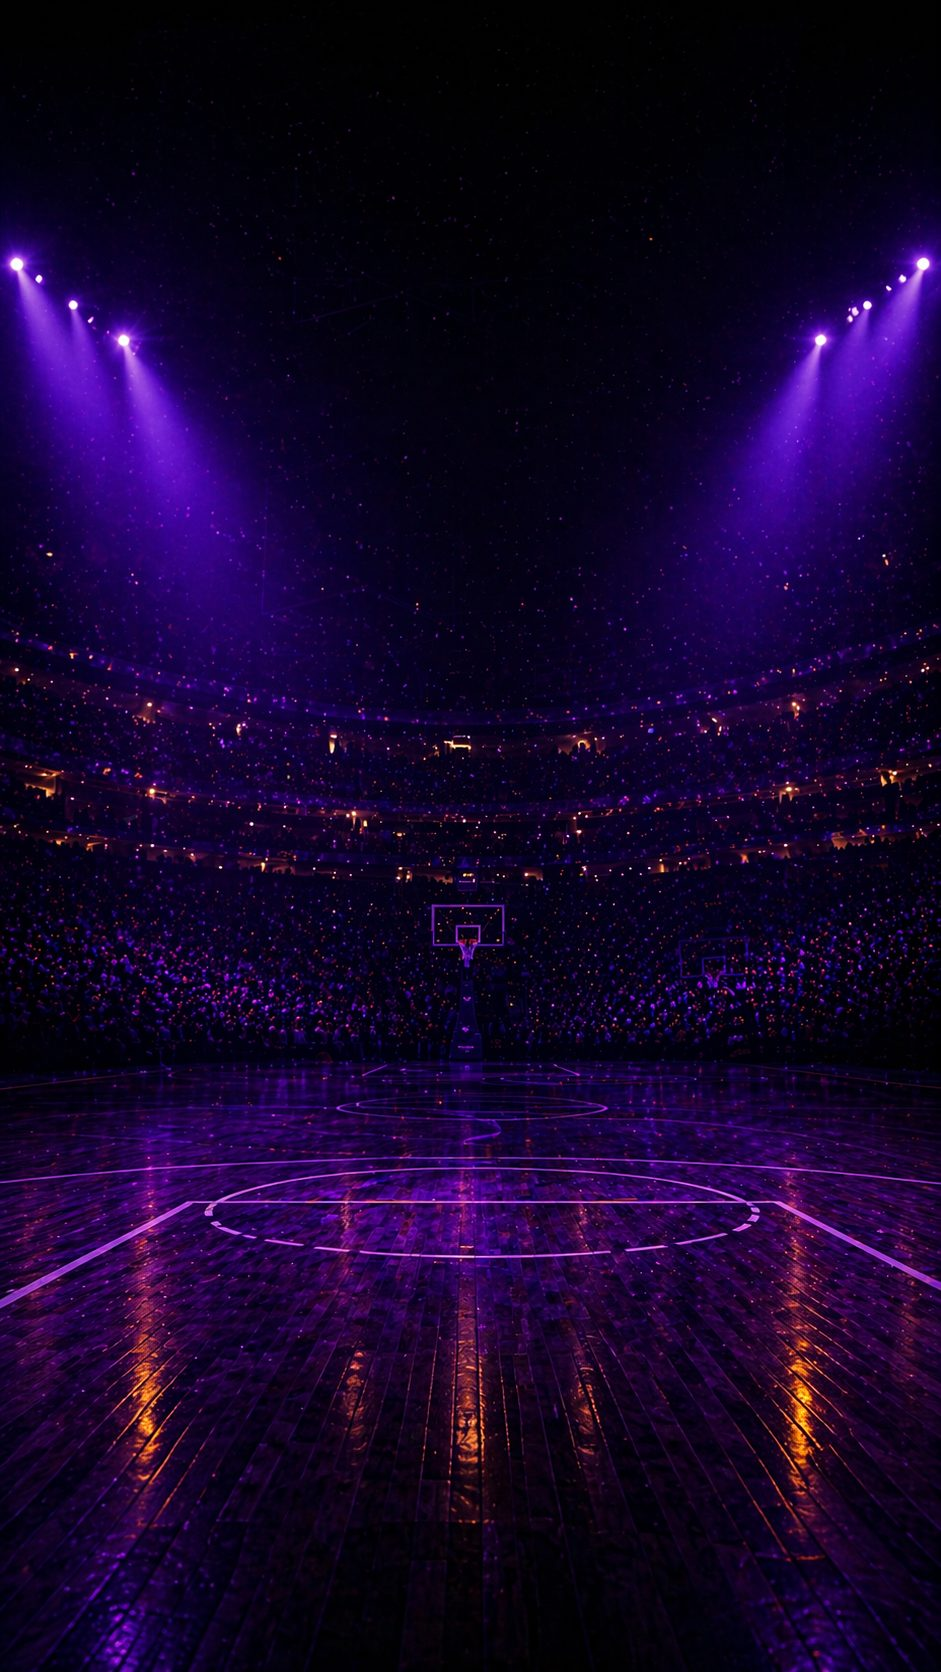
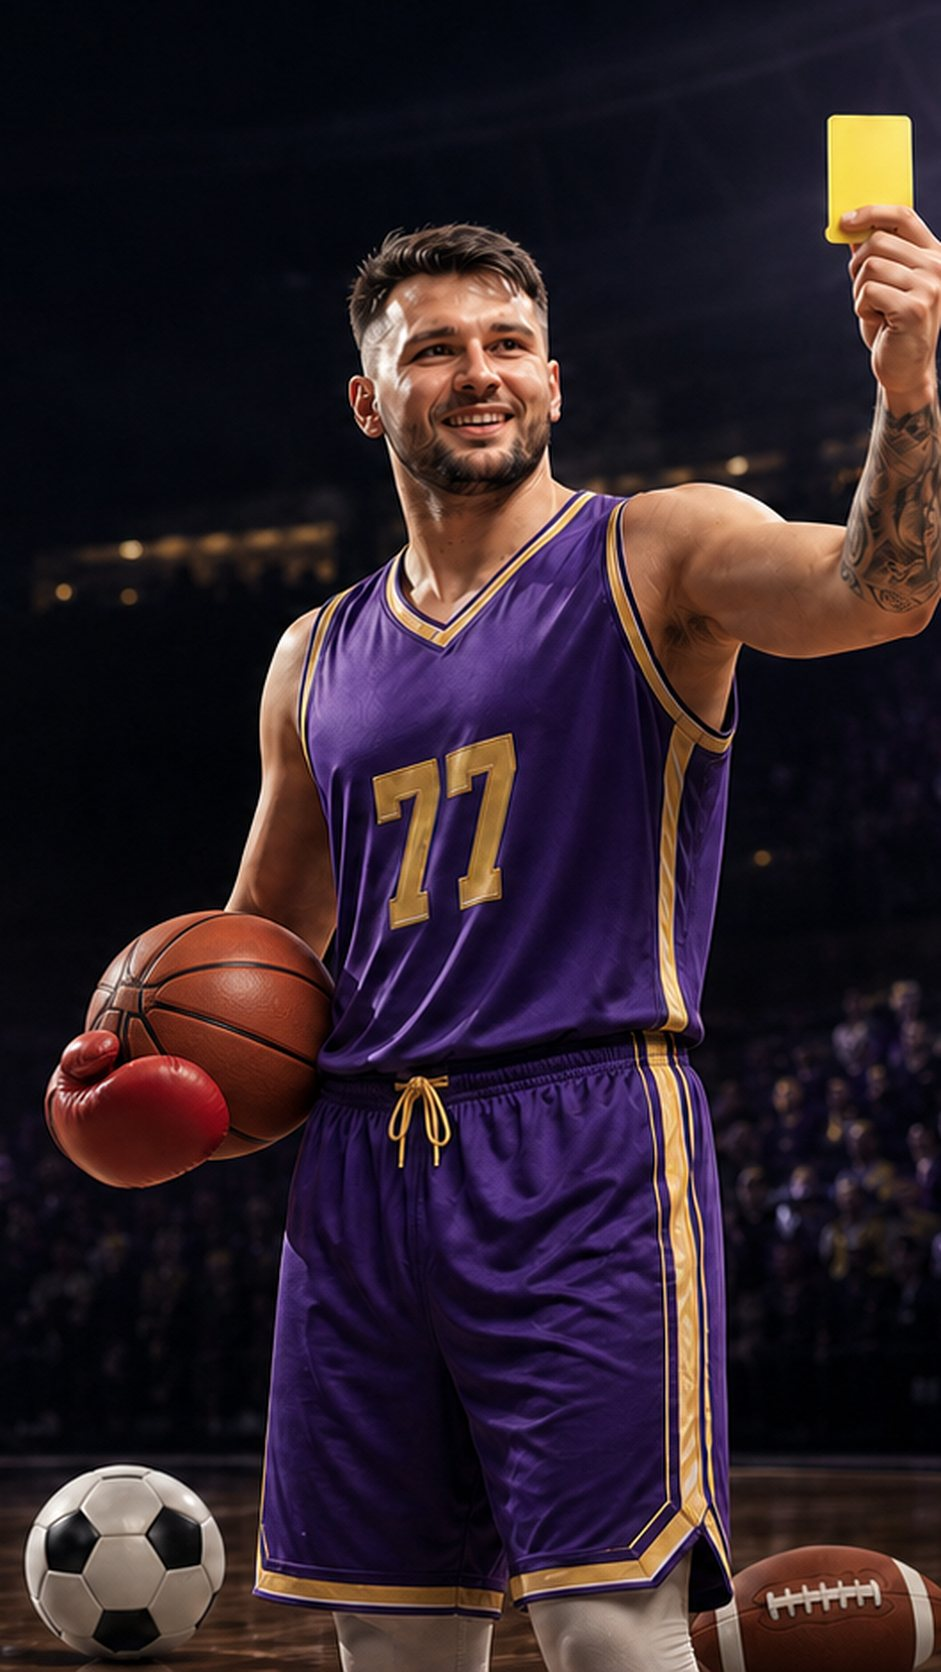
feat: imagens reais + Docker pro EasyPanel
- hero trocado pela nova arte (Luka full-body, arena roxa), com crop vertical no mobile
- retrato do analista: foto profissional em túnel de arena (jaqueta preta)
- prova social: 3 prints reais do Telegram/bet365 (análise, green, red no meio)
- remove prints antigos (pt51/53/55) não usados
- topo do hero levemente mais escuro pra contraste da headline
- Dockerfile + nginx.conf + .dockerignore pra build no EasyPanel
- index sem noindex + meta description/OG

diff --git a/index.html b/index.html
@@ -101,8 +101,8 @@ img{max-width:100%;display:block}
 .hero::before{
   content:"";position:absolute;inset:0;pointer-events:none;
   background:
-    linear-gradient(90deg,rgba(4,4,15,.94) 0%,rgba(4,4,15,.78) 38%,rgba(4,4,15,.12) 68%,rgba(4,4,15,.25) 100%),
-    linear-gradient(180deg,rgba(4,4,15,.55) 0%,transparent 22%,transparent 72%,var(--preto) 100%);
+    linear-gradient(90deg,rgba(4,4,15,.95) 0%,rgba(4,4,15,.8) 40%,rgba(4,4,15,.12) 70%,rgba(4,4,15,.28) 100%),
+    linear-gradient(180deg,rgba(4,4,15,.72) 0%,rgba(4,4,15,.15) 26%,transparent 40%,transparent 70%,var(--preto) 100%);
 }
 .hero-grid{
   position:relative;display:grid;grid-template-columns:1.05fr .95fr;
@@ -599,16 +599,16 @@ footer p{font-size:12.5px;color:rgba(156,156,168,.7);max-width:74ch;margin-top:1
       </div>
       <div class="proof-grid stagger">
         <figure>
-          <img src="assets/lukamagic/site-quality/pt51-640.jpg" width="640" height="1190" loading="lazy" decoding="async" alt="Print de resultados do grupo Luka Magic no Telegram">
-          <figcaption><span>Resultados · grupo VIP</span><i>●</i></figcaption>
-        </figure>
-        <figure>
-          <img src="assets/lukamagic/site-quality/pt53-640.jpg" width="640" height="1199" loading="lazy" decoding="async" alt="Print de análises enviadas no grupo Luka Magic">
+          <img src="assets/lukamagic/site-quality/prova-telegram-01-720.jpg" width="720" height="675" loading="lazy" decoding="async" alt="Análise enviada no grupo VIP do Luka Magic com bilhete bet365">
           <figcaption><span>Análise enviada · Telegram</span><i>●</i></figcaption>
         </figure>
         <figure>
-          <img src="assets/lukamagic/site-quality/pt55-640.jpg" width="640" height="1199" loading="lazy" decoding="async" alt="Print de feedback de membros do grupo Luka Magic">
-          <figcaption><span>Feedback dos membros</span><i>●</i></figcaption>
+          <img src="assets/lukamagic/site-quality/prova-telegram-02-720.jpg" width="720" height="827" loading="lazy" decoding="async" alt="Bilhete green confirmado no grupo do Luka Magic">
+          <figcaption><span>Green confirmado</span><i>●</i></figcaption>
+        </figure>
+        <figure>
+          <img src="assets/lukamagic/site-quality/prova-telegram-03-720.jpg" width="720" height="841" loading="lazy" decoding="async" alt="Registro com um red no meio dos resultados, sem edição">
+          <figcaption><span>Red no meio · sem maquiagem</span><i>●</i></figcaption>
         </figure>
       </div>
     </div>